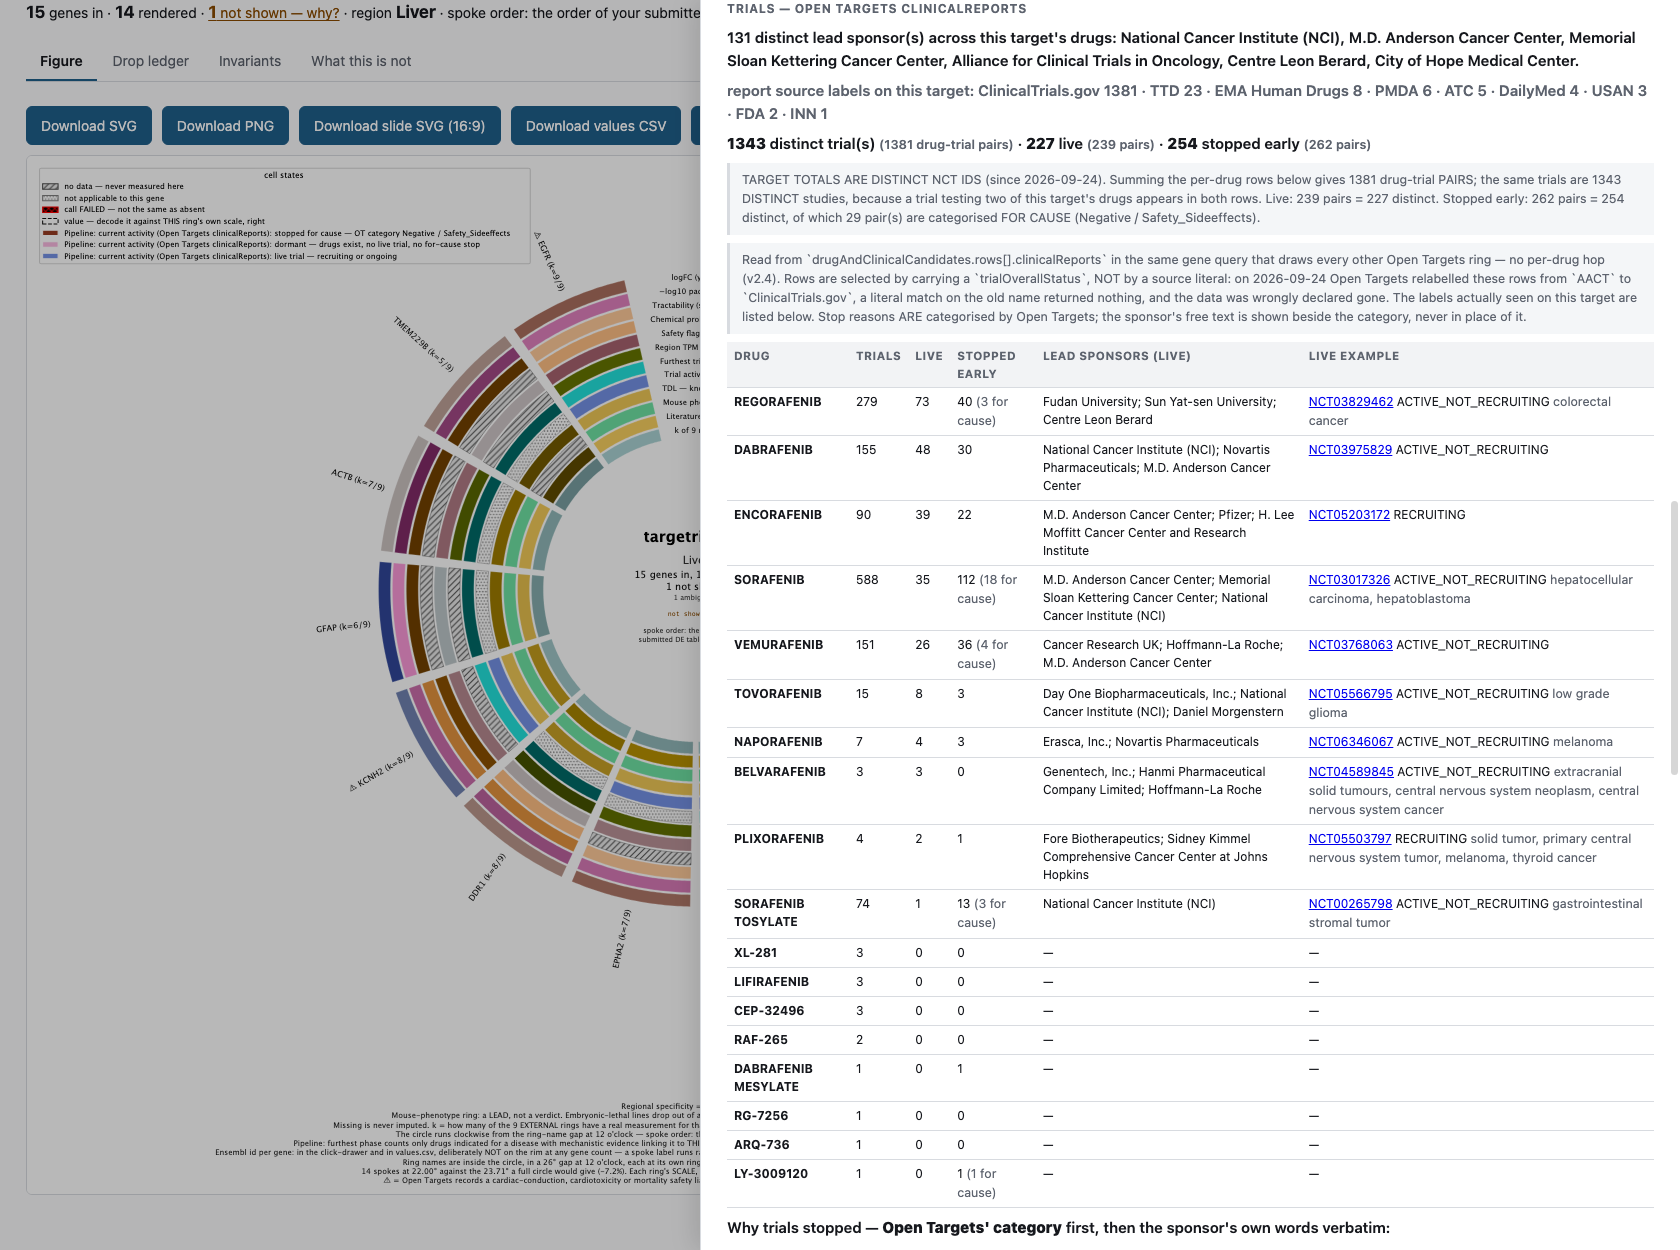
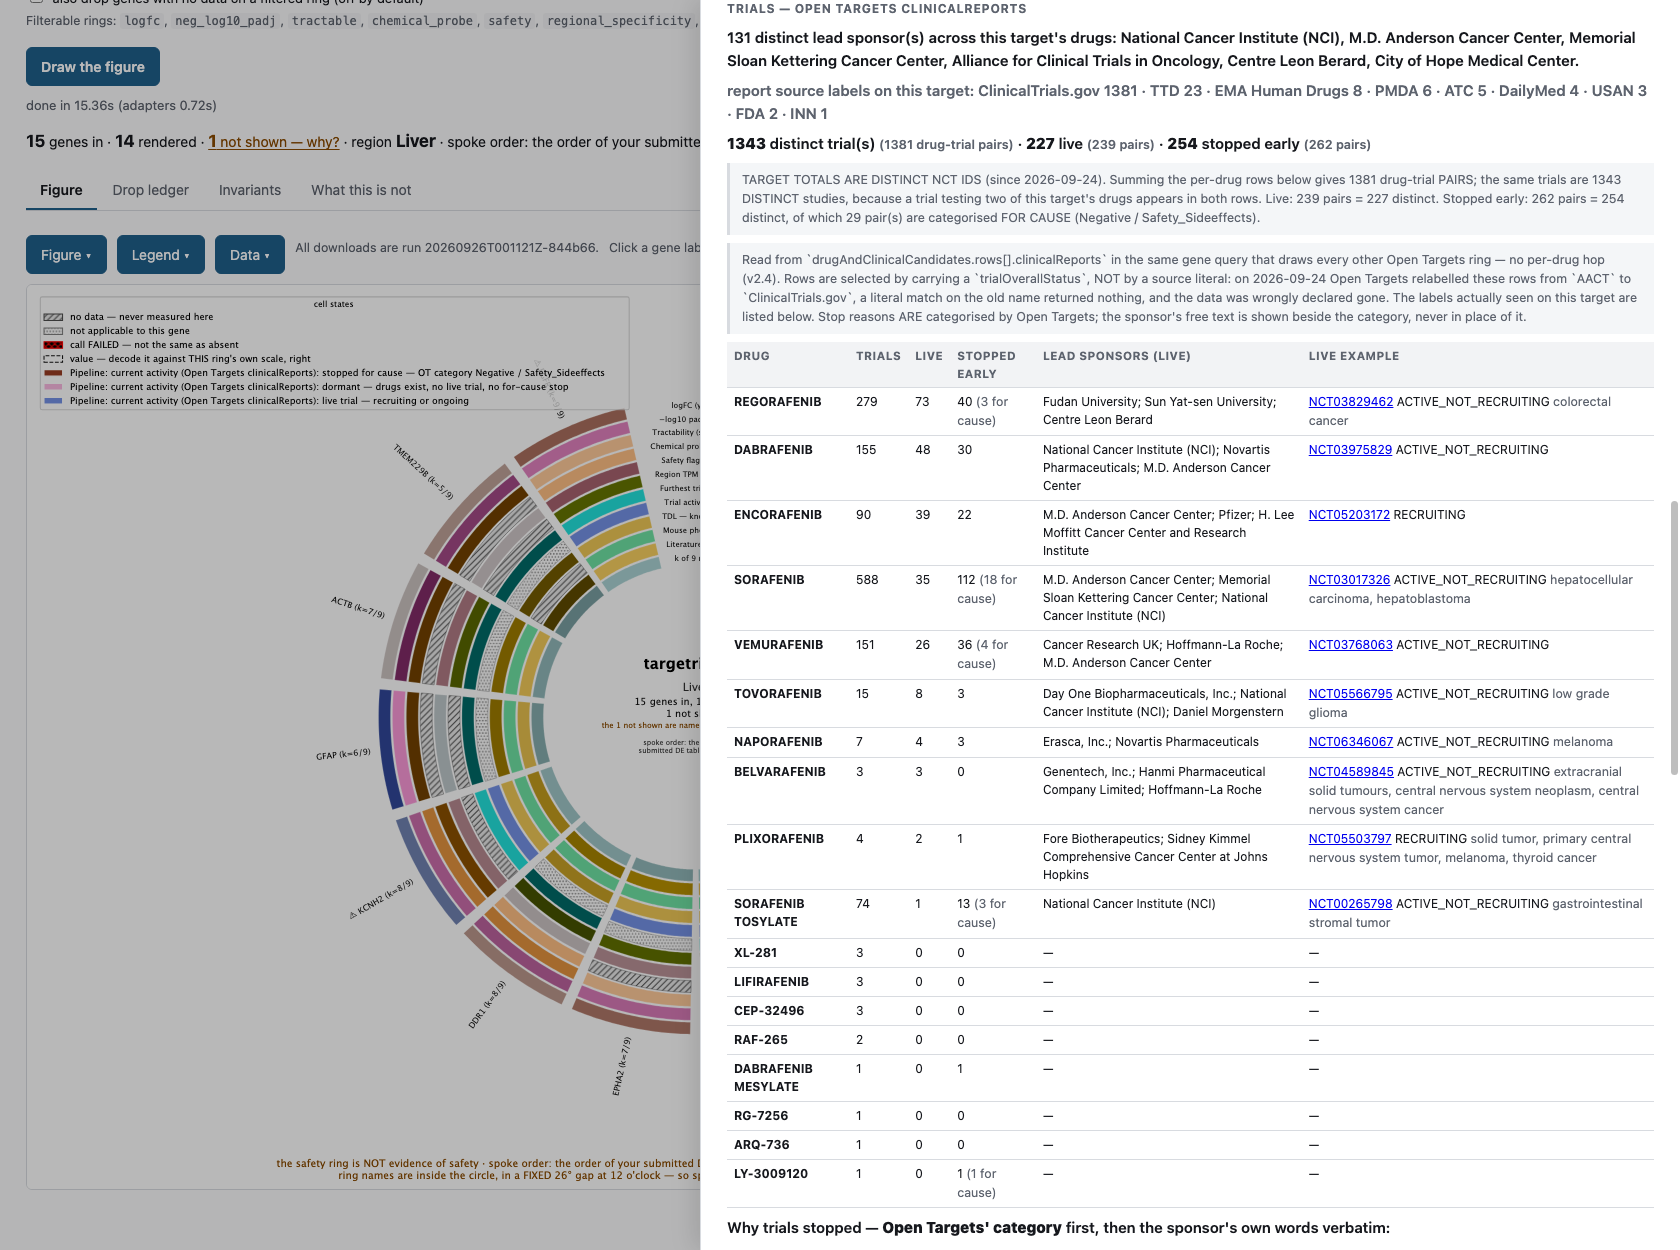
v3.0 item 2: no-store on the page assets, the grouped-download shot, the legend image
The browser served a cached app.js and app.css after the front end changed, so
the page kept inlining figure.svg instead of figure-web.svg and drew the new
download menus unstyled -- it looked like the change had not worked. The server
sends no-store on /, /app.js and /app.css now, and screenshots.py clears the
CDP profile's disk cache once before the first navigation, because a copy
cached under the OLD headers stays valid to reuse.

New shots: 12-downloads-grouped.png (three menus, Figure open) and
13-legend-as-its-own-image.png (the legend file from the cold council run).

exports_s is timed and in every manifest: 11.2 s of a 30.4 s cold 50-gene run
is the four extra render passes, and 'the run got slower' should be a number in
the artefact rather than a discovery.

Changed region(s): [[0.0, 0.0, 0.4333, 0.8424], [0.1548, 0.8736, 0.4333, 0.9672]]

diff --git a/scripts/v30_matrix.py b/scripts/v30_matrix.py
@@ -1,0 +1,67 @@
+"""The v3.0 clean cold council run, then all six fixture x region combinations.
+
+Writes one line per combination and a JSON blob per run; nothing is deleted and
+the repo cache is not touched (each run gets its own cache directory).
+"""
+from __future__ import annotations
+
+import asyncio
+import json
+import sys
+from pathlib import Path
+
+ROOT = Path(__file__).resolve().parent.parent
+sys.path.insert(0, str(ROOT))
+
+from scripts.screenshots import COUNCIL_LIST  # noqa: E402
+from targetring.cache import Cache  # noqa: E402
+from targetring.run import run_analysis  # noqa: E402
+
+FIXTURES = {
+    "de_realistic.csv": (ROOT / "fixtures" / "de_realistic.csv").read_text(),
+    "de_broken.csv": (ROOT / "fixtures" / "de_broken.csv").read_text(),
+    "council-liver": COUNCIL_LIST,
+}
+
+
+async def one(name: str, table: str, region: str, run_id: str, cache_root: Path,
+              **kw):
+    res = await run_analysis(table=table, region=region, run_id=run_id,
+                             cache=Cache(root=cache_root), run_regression=True, **kw)
+    m = res.manifest
+    inv = {i["id"]: i["outcome"] for i in m.invariants}
+    n_pass = sum(1 for v in inv.values() if v == "PASS")
+    print(f"{name:20s} {region:6s} {m.input_row_count:2d} in / {m.rendered_count:2d} "
+          f"rendered / {m.ledger_count} ledgered · {n_pass}/7 PASS · "
+          f"{m.timings.get('total_s')}s")
+    return {"fixture": name, "region": region, "invariants": inv,
+            "ordering": m.ordering, "filters": m.filters,
+            "filter_counts": m.filter_counts, "timings": m.timings,
+            "conditions": m.run_conditions}
+
+
+async def main() -> None:
+    out = []
+    # The clean cold council run, on its own empty cache.
+    cold = Path("/tmp/tr-v30-council-cold")
+    if cold.exists():
+        raise SystemExit(f"{cold} exists; a warm cache is not a cold run")
+    out.append(await one("council-liver", COUNCIL_LIST, "Liver",
+                         "V30-COUNCIL-COLD", cold))
+    # The matrix, sharing one cache after the cold run above.
+    warm = Path("/tmp/tr-v30-matrix")
+    for name, table in FIXTURES.items():
+        for region in ("Liver", "Lung"):
+            if name == "council-liver" and region == "Liver":
+                continue
+            out.append(await one(name, table, region,
+                                 f"V30-{name.split('.')[0]}-{region}", warm))
+    # v2.5 item 2: one combination re-run with filters active, so the matrix
+    # exercises the filtered path as well as the unfiltered one.
+    out.append(await one("de_realistic.csv (filtered)", FIXTURES["de_realistic.csv"],
+                         "Liver", "V30-FILTERED", warm,
+                         filters="literature >= 2\nregional_specificity >= 0.5"))
+    (ROOT / "logs" / "v30-matrix.json").write_text(json.dumps(out, indent=1))
+
+
+asyncio.run(main())

diff --git a/scripts/screenshots.py b/scripts/screenshots.py
@@ -94,6 +94,16 @@ def main() -> int:
         ctx = browser.contexts[0] if browser.contexts else browser.new_context()
         page = ctx.new_page()
         page.set_viewport_size({"width": 1680, "height": 1250})
+        # v3.0. The CDP Chrome runs off a persistent profile, so it had a disk
+        # copy of `app.js` and `app.css` from before the front end changed and
+        # kept serving them: the shots came back with the old inline render and
+        # the new download menus unstyled, and the app looked broken when it was
+        # not. The server sends `no-store` now, which stops it recurring, but a
+        # copy cached under the OLD headers is still valid to reuse -- so the
+        # cache is cleared once here, before the first navigation.
+        cdp = ctx.new_cdp_session(page)
+        cdp.send("Network.clearBrowserCache")
+        cdp.send("Network.setCacheDisabled", {"cacheDisabled": True})
 
         # 1. A real DE-like gene list.
         print("1/8 figure for a realistic DE list")
@@ -167,6 +177,19 @@ def main() -> int:
         top(page)
         page.wait_for_timeout(400)
         shot(page, "7b-ring-scales-and-sources.png")
+
+        # v3.0. The download row is three grouped menus rather than the row of
+        # nine the new artefacts would otherwise have made it, and the shot has
+        # to show one OPEN or it shows nothing: a closed `<details>` looks like
+        # fewer downloads rather than like the same set, organised.
+        print("5c2/10 the grouped downloads, Figure menu open")
+        page.evaluate("document.querySelectorAll('details.dl')[0].open = true")
+        page.wait_for_timeout(400)
+        top(page)
+        page.wait_for_timeout(400)
+        shot(page, "12-downloads-grouped.png")
+        page.evaluate(
+            "document.querySelectorAll('details.dl').forEach(d => d.open = false)")
 
         # 3d. v2.5 item 2: the same list, filtered. Two thresholds, one of them
         #     on a ring several of these genes have no value for, so the figure

diff --git a/targetring/app.py b/targetring/app.py
@@ -32,19 +32,33 @@ _regions_cache: list[str] = []
 STATIC = Path(__file__).parent / "static"
 
 
+# v3.0. `no-store` on the three files that make up the page.
+#
+# This is a local dev server and the browser was caching them: after the v3.0
+# change the page kept inlining `figure.svg` instead of `figure-web.svg` and
+# rendered the new download menus unstyled, because it still had the previous
+# `app.js` and `app.css`. It cost a screenshot run to notice, and the same trap
+# is waiting for anyone who edits the front end and reloads -- they would see
+# old behaviour and go looking for it in new code. Correctness beats caching on
+# a server that only ever serves one person on loopback.
+_NO_STORE = {"Cache-Control": "no-store, max-age=0"}
+
+
 @app.get("/", response_class=HTMLResponse)
-async def index() -> str:
-    return (STATIC / "index.html").read_text()
+async def index_nocache() -> HTMLResponse:
+    return HTMLResponse((STATIC / "index.html").read_text(), headers=_NO_STORE)
 
 
 @app.get("/app.js")
 async def appjs() -> FileResponse:
-    return FileResponse(STATIC / "app.js", media_type="application/javascript")
+    return FileResponse(STATIC / "app.js", media_type="application/javascript",
+                        headers=_NO_STORE)
 
 
 @app.get("/app.css")
 async def appcss() -> FileResponse:
-    return FileResponse(STATIC / "app.css", media_type="text/css")
+    return FileResponse(STATIC / "app.css", media_type="text/css",
+                        headers=_NO_STORE)
 
 
 @app.get("/api/regions")

diff --git a/targetring/run.py b/targetring/run.py
@@ -548,6 +548,7 @@ async def run_analysis(
     # on paper a clean run and an unchecked one looked identical. The second
     # audit render costs ~1.0 s on a 50-gene run against a 60 s budget.
     inv_summary = invariants.summary_line()
+    t_exports = time.time()
     fig_result = do_render(banner, conds, invariant_summary=inv_summary)
 
     # v3.0, Puck: "download figure and the online figure can be different."
@@ -587,6 +588,11 @@ async def run_analysis(
     # Seven files, four layouts, one data set. This says each file is the render
     # its name promises -- see the function for the bug that earned it.
     figure.assert_artefacts_are_their_own_layout(runs_dir)
+    # v3.0 renders four layouts where v2.9 rendered two, and `render_s` above
+    # only ever measured the first pass. Timed separately rather than folded in,
+    # so the cost of the new artefacts is visible in every manifest instead of
+    # being discovered later as "the run got slower".
+    timings["exports_s"] = round(time.time() - t_exports, 2)
     # v2.7: the caption is the SLIDE's caption, not the audit's. It always was
     # the slide's artefact -- "everything the slide render drops, as text to
     # paste underneath" -- and until now the two were word for word identical,
